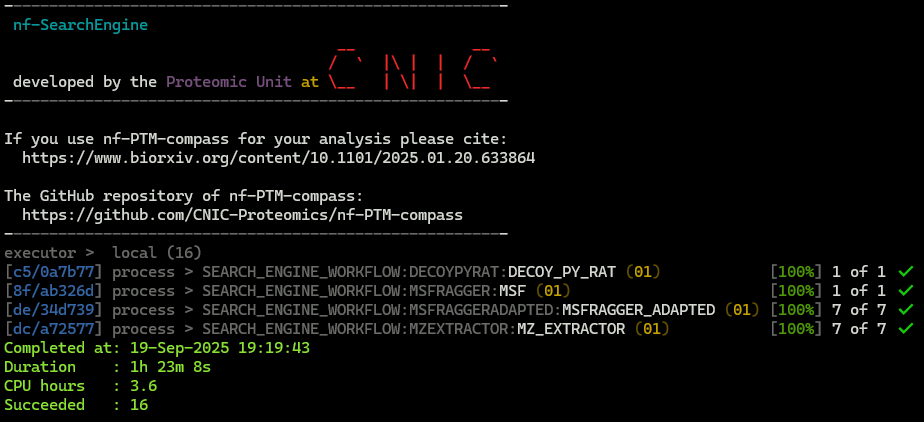
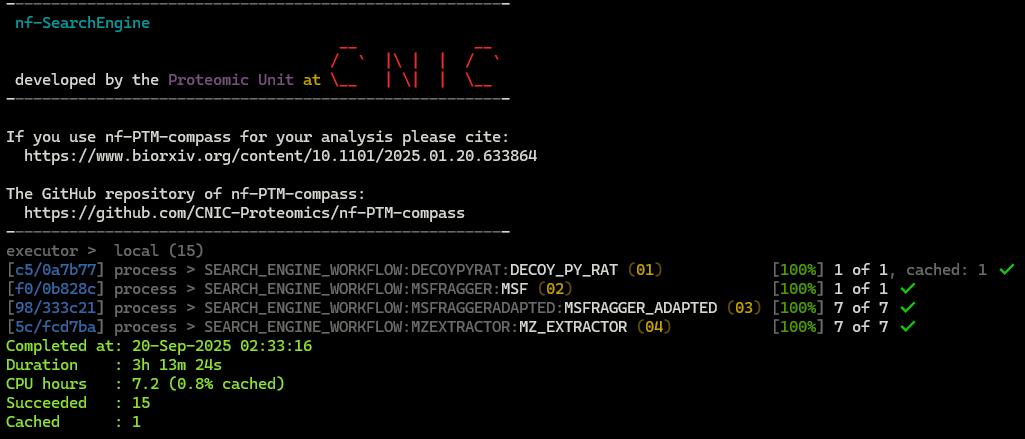
+ Version format reduced from three segments to two (major.minor). + Updated documentation: Hardware specifications and Execution trace.

diff --git a/README.md b/README.md
@@ -38,7 +38,7 @@ For more information, read the [How to install Git](docs/Git.md) section.
 
 Export an environment variable to define the version:
 ```
-export PIPELINE_VERSION=0.1.6
+export PIPELINE_VERSION=1.6
 ```
 Note: The list of releases is located on the [releases page](https://github.com/CNIC-Proteomics/nf-SearchEngine/releases).
 
@@ -53,7 +53,7 @@ With the *--recursive* parameter, the submodules repositories are cloned as well
 
 Export an environment variable to define the version of singularity image:
 ```
-export IMAGE_VERSION=0.1.5
+export IMAGE_VERSION=1.6
 ```
 Note: The list of releases is located on the [singularity repository page](https://cloud.sylabs.io/library/proteomicscnic/next-launcher/search_engine).
 
@@ -83,12 +83,16 @@ ln -s search_engine_${IMAGE_VERSION}.sif search_engine.sif
 
 ## Execute the pipeline with samples
 
+The input files provided are open search results for mouse heteroplasmy (`heart tissue`) at the following URL:
+
+https://zenodo.org/records/17175586/files/heteroplasmic_heart.zip?download=1
+
 
 1. Download sample files
 ```
 cd samples && \
-wget https://zenodo.org/records/14446572/files/nf-SearchEngine_Heteroplasmic_Muscle.zip?download=1 -O nf-SearchEngine_Heteroplasmic_Muscle.zip && \
-unzip nf-SearchEngine_Heteroplasmic_Muscle.zip && \
+wget https://zenodo.org/records/17175586/files/heteroplasmic_heart.zip?download=1 -O heteroplasmic_heart.zip && \
+unzip heteroplasmic_heart.zip && \
 cd ..
 ```
 
@@ -98,7 +102,6 @@ cd ..
     + Run MSFragger with the mzML files as input.
     + Generate decoy proteins.
     + Extract quantifications from the mzML files.
-    + Correct post-translational modifications (PTMs) using the REFMOD module.
     ```
     nextflow \
         -log "/tmp/nextflow/log/nf-searchengine.log" \
@@ -106,12 +109,12 @@ cd ..
             -profile singularity \
             --create_mzml false \
             --add_decoys true \
-            --raw_files "samples/heteroplasmic_muscle/inputs/mzMLs/*.mzML" \
-            --database "samples/heteroplasmic_muscle/inputs/database.fasta" \
+            --raw_files "samples/heteroplasmic_heart/inputs/mzMLs/*.mzML" \
+            --database "samples/heteroplasmic_heart/inputs/database.fasta" \
             --decoy_prefix "DECOY_"\
-            --msf_params_file "samples/heteroplasmic_muscle/inputs/msf_params_file.params" \
-            --reporter_ion_isotopic "samples/heteroplasmic_muscle/inputs/reporter_ion_isotopic.tsv" \
-            --outdir  "samples/heteroplasmic_muscle/results" \
+            --msf_params_file "samples/heteroplasmic_heart/inputs/msf_params_file.params" \
+            --reporter_ion_isotopic "samples/heteroplasmic_heart/inputs/reporter_ion_isotopic.tsv" \
+            --outdir  "samples/heteroplasmic_heart/results" \
             -resume
     ```
 
@@ -128,16 +131,57 @@ cd ..
             --create_mzml false \
             --add_decoys true \
             --exec_refmod true \
-            --raw_files "samples/heteroplasmic_muscle/inputs/mzMLs/*.mzML" \
-            --database "samples/heteroplasmic_muscle/inputs/database.fasta" \
+            --raw_files "samples/heteroplasmic_heart/inputs/mzMLs/*.mzML" \
+            --database "samples/heteroplasmic_heart/inputs/database.fasta" \
             --decoy_prefix "DECOY_"\
-            --msf_params_file "samples/heteroplasmic_muscle/inputs/msf_params_file.params" \
-            --dm_file "samples/heteroplasmic_muscle/inputs/dm_list.tsv" \
-            --refmod_params_file "samples/heteroplasmic_muscle/inputs/refmod_params_file.ini" \
-            --reporter_ion_isotopic "samples/heteroplasmic_muscle/inputs/reporter_ion_isotopic.tsv" \
-            --outdir  "samples/heteroplasmic_muscle/results" \
+            --msf_params_file "samples/heteroplasmic_heart/inputs/msf_params_file.params" \
+            --dm_file "samples/heteroplasmic_heart/inputs/dm_list.tsv" \
+            --refmod_params_file "samples/heteroplasmic_heart/inputs/refmod_params_file.ini" \
+            --reporter_ion_isotopic "samples/heteroplasmic_heart/inputs/reporter_ion_isotopic.tsv" \
+            --outdir  "samples/heteroplasmic_heart/results" \
             -resume
     ```
+
+### Hardware specifications
+
+The computational experiment was performed on a virtualized environment running under *Windows Subsystem for Linux 2 (WSL2)*. The software and hardware configuration were as follows:
+
+* Operating system: Ubuntu 22.04.5 LTS (Jammy Jellyfish), kernel version 6.6.87.2
+* Processor: Intel Xeon E5-2670 (Sandy Bridge) with 16 physical cores and 32 threads (Hyper-Threading enabled), base frequency ~2.6 GHz, cache hierarchy: L1 = 1 MB, L2 = 4 MB, L3 = 20 MB
+* Memory (RAM): 39 GiB
+* Storage: ~2 TiB available capacity
+
+### Execution trace with Time log
+
+The execution trace for the sample dataset was generated using the `nextflow` command above.
+
+The trace log shows the execution of each module along with the corresponding **execution time**.
+
+![Execution time screenshot](docs/images/execution_time_screenshot.png)
+
+
+## Download more samples
+
++ You can download the input files for this `liver` sample from the study by Bagwan N, Bonzon-Kulichenko E, Calvo E, et al. [1] at the following URL:
+
+https://zenodo.org/records/17175586/files/heteroplasmic_liver.zip?download=1
+
+To execute the pipeline, follow the same steps as in Sample 1.
+
++ You can download the input files for this `muscle` sample from the study by Bagwan N, Bonzon-Kulichenko E, Calvo E, et al. [1] at the following URL:
+
+https://zenodo.org/records/17175586/files/heteroplasmic_muscle.zip?download=1
+
+To execute the pipeline, follow the same steps as in Sample 1.
+
+
+## References
+
+[1] Bagwan N, Bonzon-Kulichenko E, Calvo E, et al. Comprehensive Quantification of the Modified Proteome Reveals Oxidative Heart Damage in Mitochondrial Heteroplasmy. Cell Reports. 2018;23(12):3685-3697.e4. https://doi.org/10.1016/j.celrep.2018.05.080
+
+[2] Kong, A., Leprevost, F., Avtonomov, D. et al. MSFragger: ultrafast and comprehensive peptide identification in mass spectrometry–based proteomics. Nat Methods 14, 513–520 (2017). https://doi.org/10.1038/nmeth.4256
+
+
 
 
 # Image Version History

diff --git a/TEST.md b/TEST.md
@@ -1,0 +1,70 @@
+# Usage
+
+## Execute the pipeline with samples
+
+The input files provided are open search results for mouse heteroplasmy (`heart tissue`) at the following URL:
+
+https://zenodo.org/records/17175586/files/heteroplasmic_heart.zip?download=1
+
+
+2.1. Execute the pipeline:
++ Run MSFragger with the mzML files as input.
++ Generate decoy proteins.
++ Extract quantifications from the mzML files.
++ Correct post-translational modifications (PTMs) using the REFMOD module.
+```
+nextflow \
+    -log "/tmp/nextflow/log/nf-searchengine.log" \
+    run main.nf   \
+        -profile singularity \
+        --create_mzml false \
+        --add_decoys true \
+        --raw_files "/mnt/tierra/U_Proteomica/UNIDAD/Softwares/jmrodriguezc/nf-SearchEngine/samples/heteroplasmic_heart/inputs/mzMLs/*.mzML" \
+        --database "/mnt/tierra/U_Proteomica/UNIDAD/Softwares/jmrodriguezc/nf-SearchEngine/samples/heteroplasmic_heart/inputs/database.fasta" \
+        --decoy_prefix "DECOY_"\
+        --msf_params_file "/mnt/tierra/U_Proteomica/UNIDAD/Softwares/jmrodriguezc/nf-SearchEngine/samples/heteroplasmic_heart/inputs/msf_params_file.params" \
+        --reporter_ion_isotopic "/mnt/tierra/U_Proteomica/UNIDAD/Softwares/jmrodriguezc/nf-SearchEngine/samples/heteroplasmic_heart/inputs/reporter_ion_isotopic.tsv" \
+        --outdir  "/mnt/tierra/U_Proteomica/UNIDAD/Softwares/jmrodriguezc/nf-SearchEngine/samples/heteroplasmic_heart/results" \
+        -resume
+```
+
++ You can download the input files for this `liver` sample from the study by Bagwan N, Bonzon-Kulichenko E, Calvo E, et al. [1] at the following URL:
+
+https://zenodo.org/records/17175586/files/heteroplasmic_liver.zip?download=1
+
+```
+nextflow \
+    -log "/tmp/nextflow/log/nf-searchengine.log" \
+    run main.nf   \
+        -profile singularity \
+        --create_mzml false \
+        --add_decoys true \
+        --raw_files "/mnt/tierra/U_Proteomica/UNIDAD/Softwares/jmrodriguezc/nf-SearchEngine/samples/heteroplasmic_liver/inputs/mzMLs/*.mzML" \
+        --database "/mnt/tierra/U_Proteomica/UNIDAD/Softwares/jmrodriguezc/nf-SearchEngine/samples/heteroplasmic_liver/inputs/database.fasta" \
+        --decoy_prefix "DECOY_"\
+        --msf_params_file "/mnt/tierra/U_Proteomica/UNIDAD/Softwares/jmrodriguezc/nf-SearchEngine/samples/heteroplasmic_liver/inputs/msf_params_file.params" \
+        --reporter_ion_isotopic "/mnt/tierra/U_Proteomica/UNIDAD/Softwares/jmrodriguezc/nf-SearchEngine/samples/heteroplasmic_liver/inputs/reporter_ion_isotopic.tsv" \
+        --outdir  "/mnt/tierra/U_Proteomica/UNIDAD/Softwares/jmrodriguezc/nf-SearchEngine/samples/heteroplasmic_liver/results" \
+        -resume
+```
+
++ You can download the input files for this `muscle` sample from the study by Bagwan N, Bonzon-Kulichenko E, Calvo E, et al. [1] at the following URL:
+
+https://zenodo.org/records/17175586/files/heteroplasmic_muscle.zip?download=1
+
+```
+nextflow \
+    -log "/tmp/nextflow/log/nf-searchengine.log" \
+    run main.nf   \
+        -profile singularity \
+        --create_mzml false \
+        --add_decoys true \
+        --raw_files "/mnt/tierra/U_Proteomica/UNIDAD/Softwares/jmrodriguezc/nf-SearchEngine/samples/heteroplasmic_muscle/inputs/mzMLs/*.mzML" \
+        --database "/mnt/tierra/U_Proteomica/UNIDAD/Softwares/jmrodriguezc/nf-SearchEngine/samples/heteroplasmic_muscle/inputs/database.fasta" \
+        --decoy_prefix "DECOY_"\
+        --msf_params_file "/mnt/tierra/U_Proteomica/UNIDAD/Softwares/jmrodriguezc/nf-SearchEngine/samples/heteroplasmic_muscle/inputs/msf_params_file.params" \
+        --reporter_ion_isotopic "/mnt/tierra/U_Proteomica/UNIDAD/Softwares/jmrodriguezc/nf-SearchEngine/samples/heteroplasmic_muscle/inputs/reporter_ion_isotopic.tsv" \
+        --outdir  "/mnt/tierra/U_Proteomica/UNIDAD/Softwares/jmrodriguezc/nf-SearchEngine/samples/heteroplasmic_muscle/results" \
+        -resume
+```
+

diff --git a/backends/DEVELOPMENT.md b/backends/DEVELOPMENT.md
@@ -34,7 +34,7 @@ git push origin main
 
 Export a env variable to define the version
 ```
-export IMAGE_VERSION=0.1.6
+export IMAGE_VERSION=1.6
 ```
 
 # Build in Singularity
